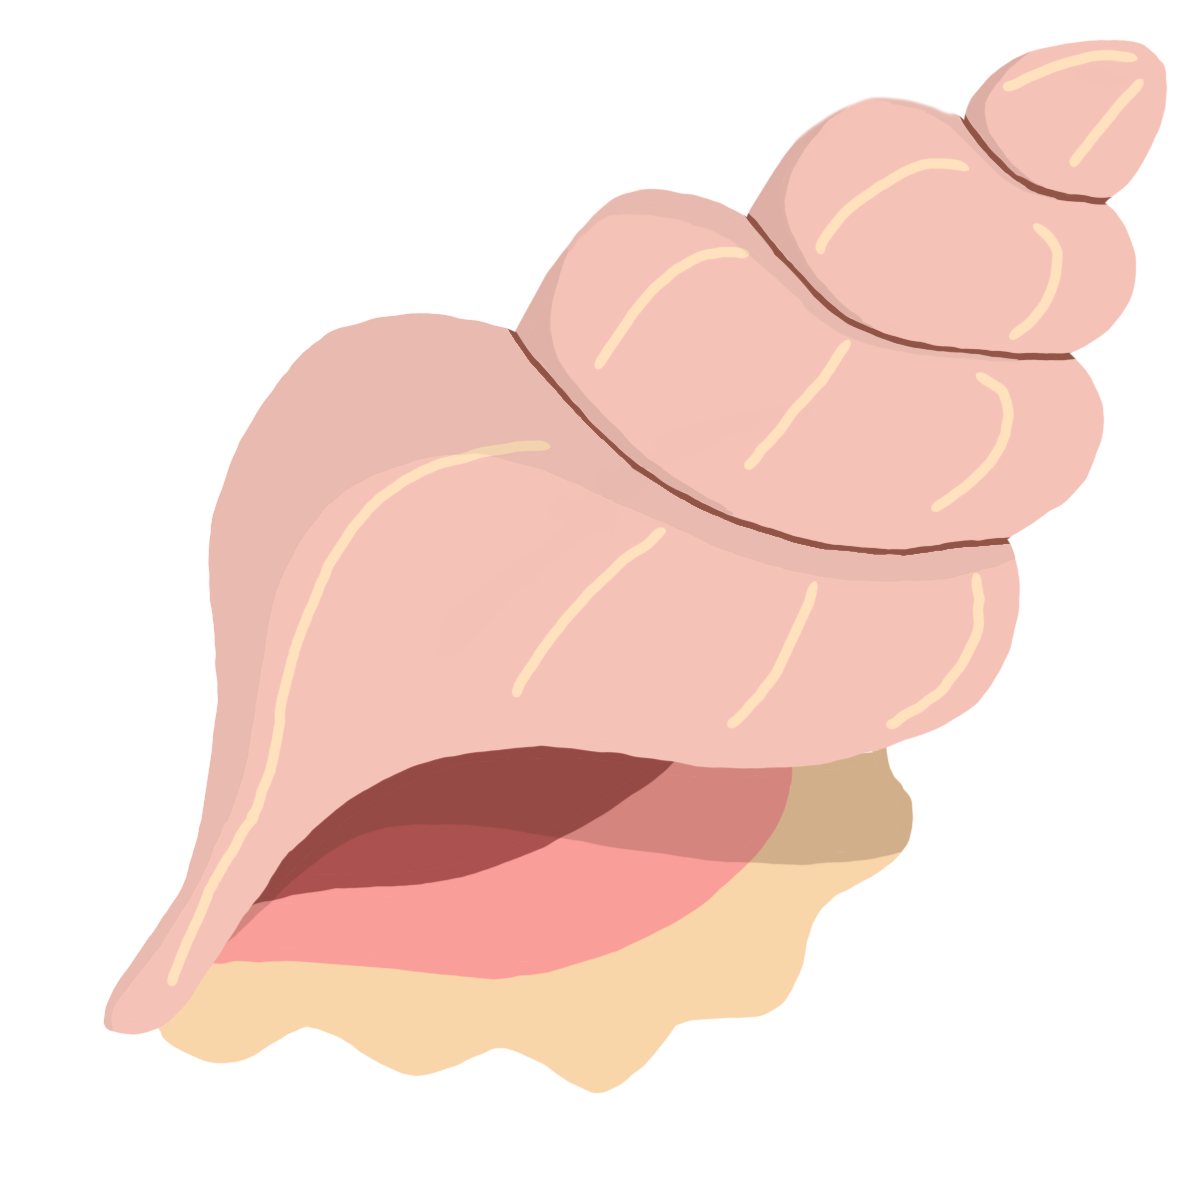
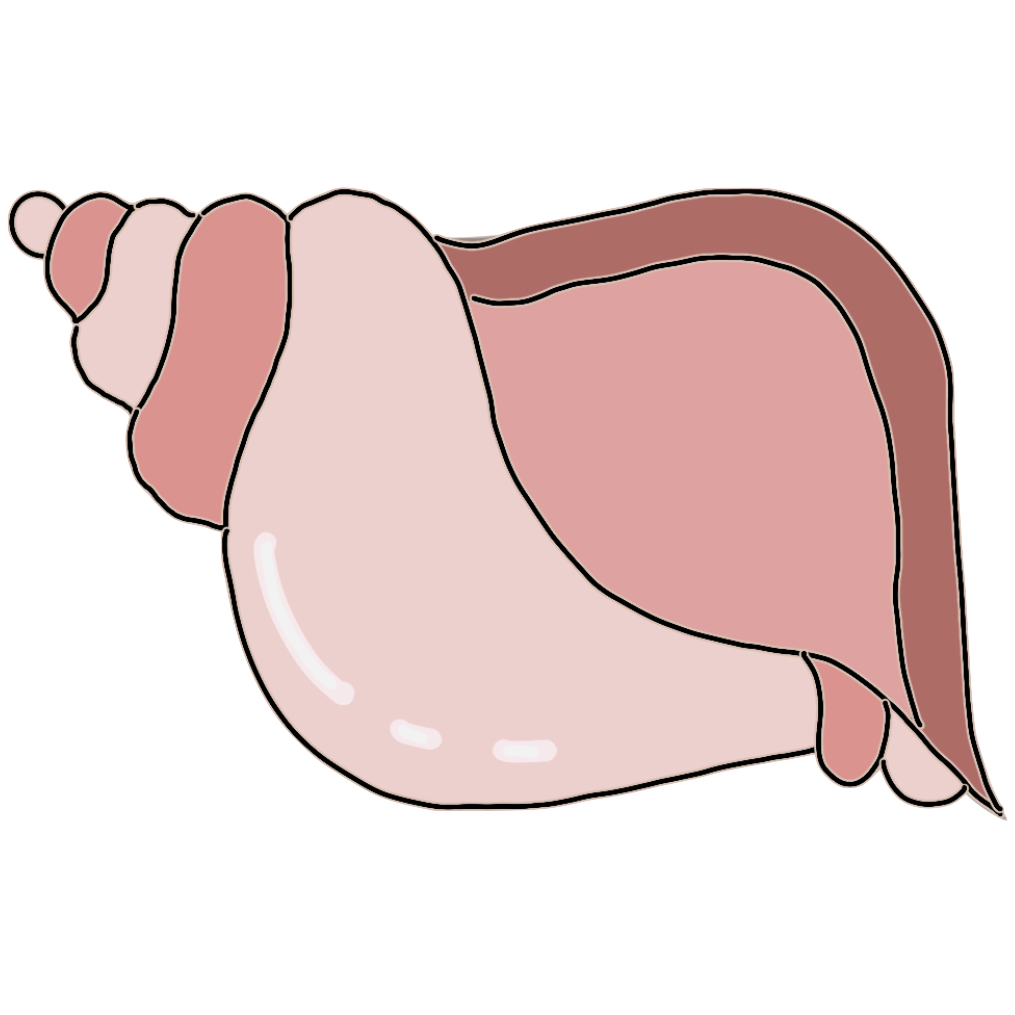
classes added and utilized

diff --git a/main.py b/main.py
@@ -267,26 +267,26 @@ def setupHome():
                  pygame.transform.scale(ogSoundImgs[0], (w*0.08, w*0.08))]
     soundOn = True
 
-    infoButtonRect = pygame.Rect(w*0.72, w*0.86, w*0.12, w*0.12)
-    ogInfoImg = pygame.image.load(os.path.join(DIRECTORY, "assets/images/icons/info.png"))
-    infoImg = pygame.transform.scale(ogInfoImg, (w*0.08, w*0.08))
+    infoButton = Button("img", w*0.12, w*0.12, "#f8faf7", 20, x=w*0.72, y=w*0.86, 
+                             imgFile=os.path.join(DIRECTORY, "assets/images/icons/info.png"),
+                             ogSize=w*0.08, hoverSize=w*0.09)
 
     return playButton, drawButton, playBubble, drawBubble,\
         sanddollarRect, sanddollarImg,\
         shopButton, galleryButton, beachButton,\
         soundButtonRect, ogSoundImgs, soundImgs, soundOn,\
-        infoButtonRect, ogInfoImg, infoImg
+        infoButton
 
 def setupChooseSolve():
-    choosePredrawnRect = pygame.Rect(0,0,w*0.5,w*0.15)
-    choosePredrawnRect.centerx = w/2
-    choosePredrawnRect.centery = w*0.35
+    choosePredrawnButton = Button("text", w*0.5, w*0.15, "#426334", 
+                          border_radius=20, centerx=w/2, centery=w*0.35, 
+                          text=Text("Pre-drawn", "#abcc9d", 64), hoverSize=72)
 
     chooseCustomRect = pygame.Rect(0,0,w*0.4,w*0.14)
     chooseCustomRect.centerx = w/2
     chooseCustomRect.centery = w*0.55
 
-    return choosePredrawnRect, chooseCustomRect
+    return choosePredrawnButton, chooseCustomRect
 
 def setupDarkFade():
     darken = pygame.Surface((w,w), pygame.SRCALPHA)
@@ -300,19 +300,19 @@ def setupDarkFade():
     return darken, opacity, fade, fadeo
 
 def setupEndScreen():
-    yesRect = pygame.Rect(0,0,w*0.3,w*0.1)
-    yesRect.centerx = w*0.3
-    yesRect.centery = w*0.7
+    yesButton = Button("text", w*0.3, w*0.1, "#9ebd73", 
+                       border_radius=20, centerx=w*0.3, centery=w*0.7, 
+                       text=Text("Yes", "#344024", 48), hoverSize=56)
 
-    noRect = pygame.Rect(0,0,w*0.3,w*0.1)
-    noRect.centerx = w*0.7
-    noRect.centery = w*0.7
+    noButton = Button("text", w*0.3, w*0.1, "#bd7573", 
+                      border_radius=20, centerx=w*0.7, centery=w*0.7, 
+                      text=Text("No", "#402424", 48), hoverSize=56)
 
-    claimSanddollarRect = pygame.Rect(0,0,w*0.75,w*0.1)
-    claimSanddollarRect.centerx = w/2
-    claimSanddollarRect.centery = w*0.6
+    claimSanddollarButton = Button("text", w*0.75, w*0.1, "#9ebd73", 
+                                 border_radius=20, centerx=w*0.5, centery=w*0.6, 
+                                 text=Text("Yes", "#344024", 48), hoverSize=56)
 
-    return yesRect, noRect, claimSanddollarRect
+    return yesButton, noButton, claimSanddollarButton
 
 def setupGallery():
     galleryBg = pygame.Rect(0,0,w*0.9,w*0.9)
@@ -423,13 +423,6 @@ def setupOthers():
     return size, gap, cellW, hp, offset, acceleration, down, solveDown, colors,\
         checkButtonRect, checkButtonImg
 
-def setupChange():
-    stage = "home" # index
-    r = json.loads(load_data("save"))
-    sanddollar = int(r["sanddollar"])
-
-    return stage, sanddollar
-
 def setup():
     if load_data("save") == None:
         save_data('{"sanddollar": 0, "gallery": "", "beach_bg": "", "inv": "", "beach_items": ""}', "save") # default save value
@@ -453,10 +446,10 @@ def setup():
         sanddollarRect, sanddollarImg,\
         shopButton, galleryButton, beachButton,\
         soundButtonRect, ogSoundImgs, soundImgs, soundOn,\
-        infoButtonRect, ogInfoImg, infoImg = setupHome()
+        infoButton = setupHome()
 
     # publish image yes no buttons
-    yesRect, noRect, claimSanddollarRect = setupEndScreen()
+    yesButton, noButton, claimSanddollarButton = setupEndScreen()
 
     # gallery stuff
     galleryBg, popupExitRect, galleryData,\
@@ -477,14 +470,16 @@ def setup():
         shopItemRects, shopItemImgs, ogShopItemImgs,\
         shopItemPrice = setupShop()
 
-    stage, sanddollar = setupChange()
+    stage = "home" # index
+    r = json.loads(load_data("save"))
+    sanddollar = int(r["sanddollar"])
 
     selecting, clickBg = -1, False
 
     shopSDAnimate, shopSDAnimateTxt,\
         scaling, rotating, ogRotation = 0, "", False, False, 0
 
-    choosePredrawnRect, chooseCustomRect = setupChooseSolve()
+    choosePredrawnButton, chooseCustomRect = setupChooseSolve()
 
     infoPageBg = pygame.transform.scale(pygame.image.load(os.path.join(DIRECTORY, "assets/images/icons/infoPage.png")), 
                                         (w*0.9,w*0.9))
@@ -508,11 +503,11 @@ def setup():
         cellTimers, boardSolution, boardSolving, boardRects,\
         infos, yinfoRects, xinfoRects,\
         darken, opacity, fade, fadeo,\
-        choosePredrawnRect, chooseCustomRect,\
+        choosePredrawnButton, chooseCustomRect,\
         playButton, drawButton, playBubble, drawBubble,\
         sanddollarRect, sanddollarImg,\
         shopButton, galleryButton, beachButton,\
-        yesRect, noRect, claimSanddollarRect,\
+        yesButton, noButton, claimSanddollarButton,\
         popupExitRect, galleryBg, galleryData,\
         galleryBigRects, gallerySmallRects,\
         galleryColors, galleryPage, FlipLeftRect, FlipRightRect,\
@@ -526,8 +521,7 @@ def setup():
         shopSDAnimate, shopSDAnimateTxt,\
         scaling, rotating, ogRotation,\
         soundButtonRect, ogSoundImgs, soundImgs, soundOn,\
-        infoButtonRect, ogInfoImg, infoImg,\
-        infoPageBg, infoPageBgBold, infoRect,\
+        infoButton, infoPageBg, infoPageBgBold, infoRect,\
         instructionPages, instructionPageNo,\
         XO, heartXOimg, heartRect
 
@@ -946,6 +940,8 @@ def exit_button(exitRect, clickSFX, stage, down, target):
     
     return stage
 
+# pages
+
 async def main():
     # acceleration: the acceleration of the animation before solving
     # galleryColors: holds data of the images in the gallery (which one is 0 or 1)
@@ -956,11 +952,11 @@ async def main():
         cellTimers, boardSolution, boardSolving, boardRects,\
         infos, yinfoRects, xinfoRects,\
         darken, opacity, fade, fadeo,\
-        choosePredrawnRect, chooseCustomRect,\
+        choosePredrawnButton, chooseCustomRect,\
         playButton, drawButton, playBubble, drawBubble,\
         sanddollarRect, sanddollarImg,\
         shopButton, galleryButton, beachButton,\
-        yesRect, noRect, claimSanddollarRect,\
+        yesButton, noButton, claimSanddollarButton,\
         popupExitRect, galleryBg, galleryData,\
         galleryBigRects, gallerySmallRects,\
         galleryColors, galleryPage, FlipLeftRect, FlipRightRect,\
@@ -974,8 +970,7 @@ async def main():
         shopSDAnimate, shopSDAnimateTxt,\
         scaling, rotating, ogRotation,\
         soundButtonRect, ogSoundImgs, soundImgs, soundOn,\
-        infoButtonRect, ogInfoImg, infoImg,\
-        infoPageBg, infoPageBgBold, infoRect,\
+        infoButton, infoPageBg, infoPageBgBold, infoRect,\
         instructionPages, instructionPageNo,\
         XO, heartXOimg, heartRect = setup()
 
@@ -1019,7 +1014,6 @@ async def main():
 
             if shopButton.get_pressed():
                 stage = "shop"
-                shopPage = 0
                 clickSFX.play()
             
             # gallery
@@ -1057,20 +1051,11 @@ async def main():
                                     soundButtonRect.centery-soundImgs.get_size()[1]/2))
 
             # info button
-            pygame.draw.rect(screen, (248, 250, 247), infoButtonRect, border_radius=20)
-
-            if infoButtonRect.collidepoint(pygame.mouse.get_pos()):
-                infoImg = pygame.transform.scale(ogInfoImg, (w*0.09, w*0.09))
-
-                if pygame.mouse.get_pressed()[0] and not down:
-                    stage = "info"
-                    clickSFX.play()
-
-            else:
-                infoImg = pygame.transform.scale(ogInfoImg, (w*0.08, w*0.08))
-            
-            screen.blit(infoImg, (infoButtonRect.centerx - infoImg.get_size()[0]/2,
-                                  infoButtonRect.centery-infoImg.get_size()[1]/2))
+            infoButton.draw()
+                        
+            if infoButton.get_pressed():
+                stage = "info"
+                clickSFX.play()
 
             # play button
             playButton.draw()
@@ -1177,6 +1162,7 @@ async def main():
                 
                 galleryData = saveR["gallery"].split("-")
 
+                # if there is IndexError here, check the save.txt
                 if galleryData != [""]:
                     data = ""
                     for i in range(len(galleryData)):
@@ -1192,7 +1178,7 @@ async def main():
                             data = PREDRAWN[int(galleryData[i])].split(" ")
                         else:
                             data = galleryR[int(galleryData[i])].split(" ")
-                        datasize = int(data[0])
+                        datasize = int(data[0]) # SMTH WRONG HERE HELPPPPP
                         data = data[1]
 
                         dataW = (galleryBigRects[-1].w - w*0.02)/datasize
@@ -1684,31 +1670,22 @@ async def main():
         
         elif stage == "choose-solve": # screen to chose to play custom drawn or pr-drawn
             # pre-drawn button
-            pygame.draw.rect(screen, (66, 99, 52), choosePredrawnRect, border_radius=20)
+            choosePredrawnButton.draw()
 
-            if choosePredrawnRect.collidepoint(pygame.mouse.get_pos()):
-                text = pygame.font.Font(FONT, 72).render("Pre-drawn", True, (171, 204, 157))
-                textpos = text.get_rect(centerx=choosePredrawnRect.centerx, centery=choosePredrawnRect.centery)
-                screen.blit(text, textpos)
-
-                screen.blit(playBubble, (w*0.2, choosePredrawnRect.y - w*0.2))
+            if choosePredrawnButton.rect.collidepoint(pygame.mouse.get_pos()):
+                screen.blit(playBubble, (w*0.2, choosePredrawnButton.y - w*0.2))
 
                 text = pygame.font.Font(FONT, 24).render("Solve a pre-drawn nonogram", True, (51, 66, 44))
-                textpos = text.get_rect(centerx=w/2, centery=choosePredrawnRect.y - w*0.15)
+                textpos = text.get_rect(centerx=w/2, centery=choosePredrawnButton.y - w*0.15)
                 screen.blit(text, textpos)
 
                 text = pygame.font.Font(FONT, 24).render("Earn sand dollars", True, (51, 66, 44))
-                textpos = text.get_rect(centerx=w/2, centery=choosePredrawnRect.y - w*0.1)
+                textpos = text.get_rect(centerx=w/2, centery=choosePredrawnButton.y - w*0.1)
                 screen.blit(text, textpos)
 
                 if pygame.mouse.get_pressed()[0] and not down:
                     stage = "animation-for-solve get-from-gallery pre-drawn"
                     clickSFX.play()
-
-            else:
-                text = pygame.font.Font(FONT, 64).render("Pre-drawn", True, (171, 204, 157))
-                textpos = text.get_rect(centerx=choosePredrawnRect.centerx, centery=choosePredrawnRect.centery)
-                screen.blit(text, textpos)
 
             # custom button
             pygame.draw.rect(screen, (171, 204, 157), chooseCustomRect, border_radius=20)
@@ -1924,12 +1901,11 @@ async def main():
 
             if opacity >= 127:
                 if len(stage.split()) > 1 and stage.split()[1] == "earn-sanddollar":
-                    pygame.draw.rect(screen, (158, 189, 115), claimSanddollarRect, border_radius=20)
-                    text = pygame.font.Font(FONT, 48).render(f"Claim sand dollar {earndollar}x", True, (52, 64, 36))
-                    textpos = text.get_rect(centerx=claimSanddollarRect.centerx, centery=claimSanddollarRect.centery)
-                    screen.blit(text, textpos)
+                    claimSanddollarButton.text.modify(text=f"Claim sand dollar {earndollar}x")
+                    claimSanddollarButton.hoverText.modify(text=f"Claim sand dollar {earndollar}x")
+                    claimSanddollarButton.draw()
 
-                    if claimSanddollarRect.collidepoint(pygame.mouse.get_pos()) and pygame.mouse.get_pressed()[0]:
+                    if claimSanddollarButton.get_pressed():
                         clickSFX.play()
                         sanddollar += earndollar
 
@@ -1952,17 +1928,9 @@ async def main():
                     textpos = text.get_rect(centerx=w/2, centery=w*0.55)
                     screen.blit(text, textpos)
 
-                    pygame.draw.rect(screen, (158, 189, 115), yesRect, border_radius=20)
-                    text = pygame.font.Font(FONT, 48).render("Yes", True, (52, 64, 36))
-                    textpos = text.get_rect(centerx=yesRect.centerx, centery=yesRect.centery)
-                    screen.blit(text, textpos)
+                    yesButton.draw()
 
-                    pygame.draw.rect(screen, (189, 117, 115), noRect, border_radius=20)
-                    text = pygame.font.Font(FONT, 48).render("No", True, (52, 64, 36))
-                    textpos = text.get_rect(centerx=noRect.centerx, centery=noRect.centery)
-                    screen.blit(text, textpos)
-
-                    if yesRect.collidepoint(pygame.mouse.get_pos()) and pygame.mouse.get_pressed()[0]:
+                    if yesButton.get_pressed():
                         clickSFX.play()
                         r = load_data("gallery").strip()
 
@@ -1988,8 +1956,10 @@ async def main():
                         solveNext = -1
 
                         stage = "reset"
+
+                    noButton.draw()
                     
-                    if noRect.collidepoint(pygame.mouse.get_pos()) and pygame.mouse.get_pressed()[0]:
+                    if noButton.get_pressed():
                         clickSFX.play()
                         stage = "reset"
 

diff --git a/CONTRIBUTING.md b/CONTRIBUTING.md
@@ -17,6 +17,7 @@ Keep the codebase **DRY** (*Don't Repeat Yourself*):
 
 * Write modular, general-purpose functions wherever possible.
 * Avoid hardcoding values or tightly coupling functions to single specific use cases if they can be designed to handle broader scenarios.
+* When creating classes, they must be generalized to fit most things the class is used for (e.g. if the class is for buttons, it can and will be used in most buttons)
 
 ### Dynamic Screen Scaling (`w` & `h` Variables)
 
